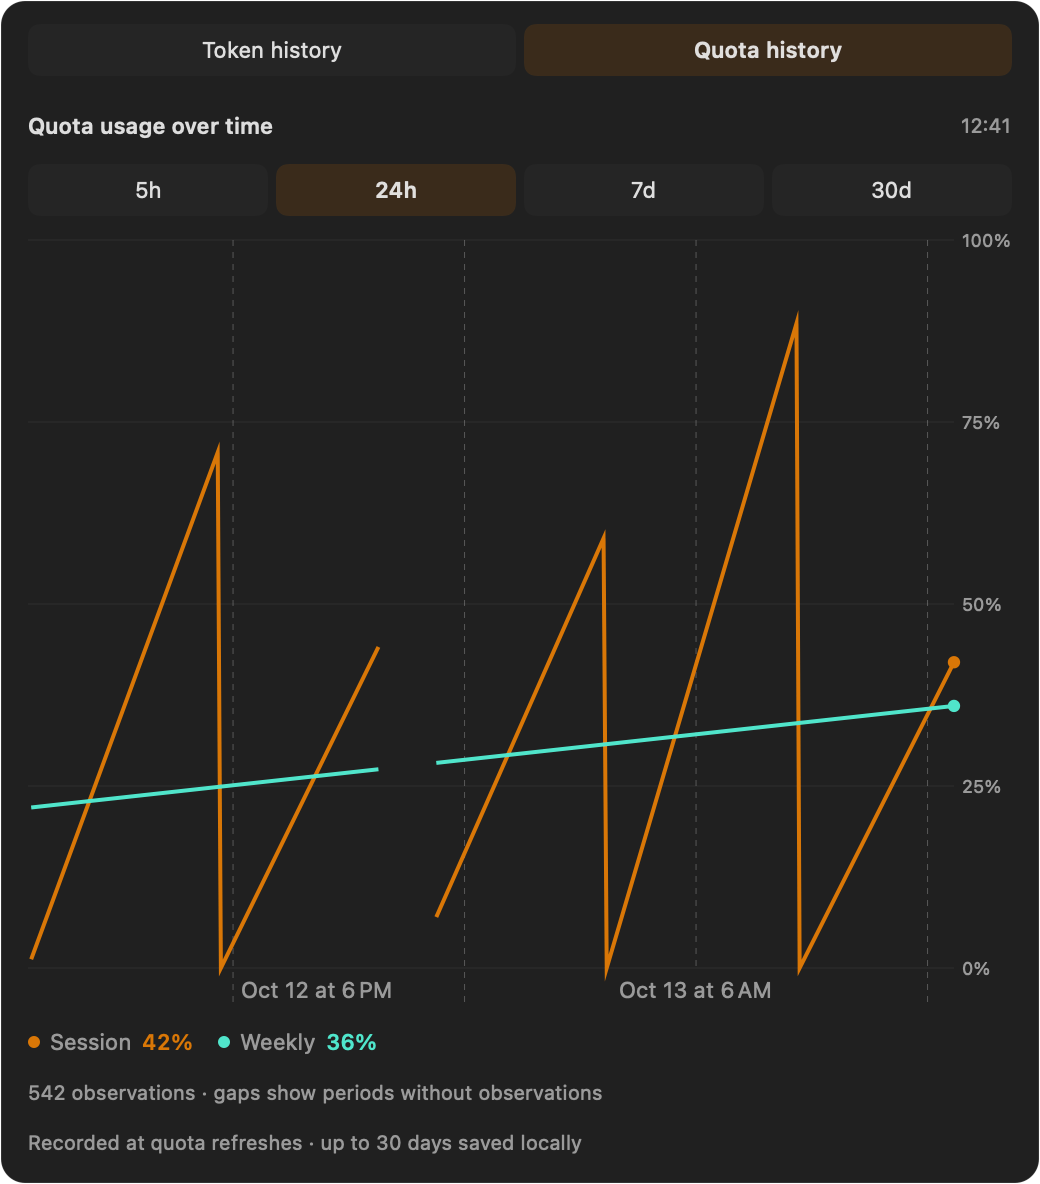
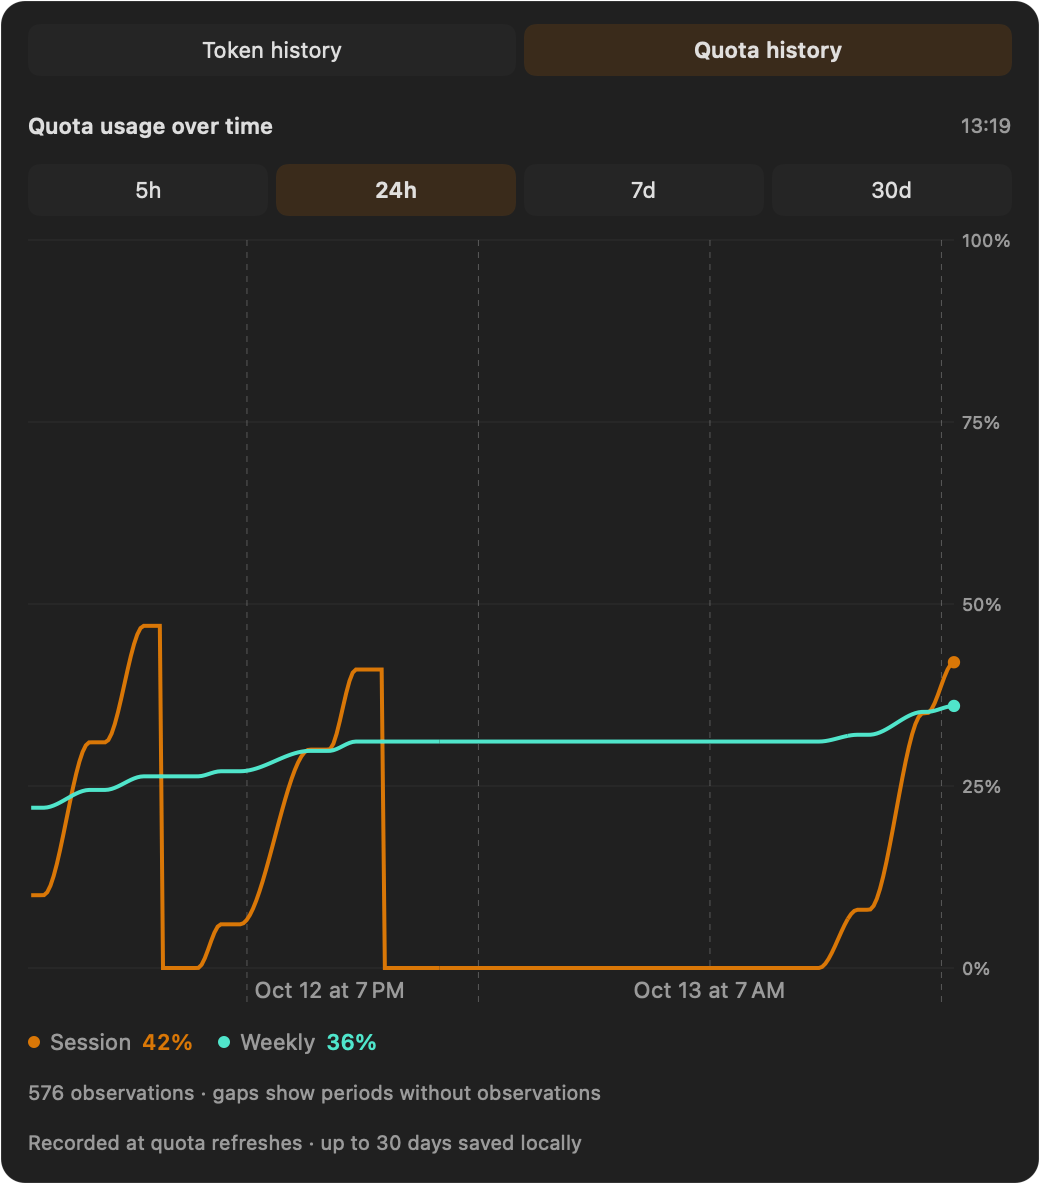
Present history previews side by side with natural sample usage

diff --git a/scripts/ReadmePreview.swift b/scripts/ReadmePreview.swift
@@ -37,19 +37,7 @@ struct ReadmePreview {
         let usage = ProxyUsageSnapshot(days: days, startedAt: start, trackingEnabled: true,
             lastCollectedAt: now.addingTimeInterval(-18), successCount: days.reduce(0) { $0 + $1.requests }, failedCount: 0)
 
-        let indices = (0...288).filter { !(110...126).contains($0) }
-        let historyStart = now.addingTimeInterval(-86400)
-        let session = indices.map { index in
-            let factor = [1.2, 0.9, 1.0, 1.5, 0.875][min(4, index / 60)]
-            return QuotaHistoryPoint(date: historyStart.addingTimeInterval(Double(index * 300)), usedPercent: Double(index % 60) * factor)
-        }
-        let weekly = indices.map { index in
-            QuotaHistoryPoint(date: historyStart.addingTimeInterval(Double(index * 300)), usedPercent: 22 + Double(index) / 288 * 14)
-        }
-        let history = QuotaHistorySnapshot(series: [
-            QuotaHistorySeries(id: "five-hour-session", title: "Session", points: session),
-            QuotaHistorySeries(id: "seven-day-weekly", title: "Weekly", points: weekly)
-        ])
+        let history = quotaHistory(endingAt: now)
         let observed = now.addingTimeInterval(-180)
         func metric(_ name: String, remaining: Double, reset: TimeInterval? = nil, duration: TimeInterval? = nil) -> QuotaMetric {
             QuotaMetric(name: name, percentage: remaining,
@@ -141,6 +129,39 @@ struct ReadmePreview {
         print("Rendered eight previews with fictional accounts and activity.")
     }
 
+    private static func quotaHistory(endingAt now: Date) -> QuotaHistorySnapshot {
+        // Fictional work periods increase at different rates, with quiet time
+        // between them. Only session resets produce abrupt drops.
+        let sessions: [(start: Double, work: [(start: Double, duration: Double, amount: Double)])] = [
+            (-1.5, [(-1.4, 1.5, 10), (0.4, 1.2, 21), (2.0, 1.0, 16)]),
+            (4.25, [(4.4, 0.6, 6), (5.5, 1.8, 24), (7.8, 0.7, 11)]),
+            (20.5, [(20.5, 1.0, 8), (21.8, 1.4, 27), (23.3, 0.7, 7)])
+        ]
+        func consumption(_ work: [(start: Double, duration: Double, amount: Double)], at hour: Double) -> Double {
+            work.reduce(0) { used, period in
+                let progress = min(1, max(0, (hour - period.start) / period.duration))
+                return used + period.amount * progress * progress * (3 - 2 * progress)
+            }
+        }
+        let work = sessions.flatMap(\.work)
+        let baseline = consumption(work, at: 0)
+        let total = consumption(work, at: 24) - baseline
+        let start = now.addingTimeInterval(-86400)
+        var session: [QuotaHistoryPoint] = []
+        var weekly: [QuotaHistoryPoint] = []
+        for index in 0...288 {
+            let hour = Double(index) / 12
+            let date = start.addingTimeInterval(Double(index * 300))
+            let active = sessions.first { hour >= $0.start && hour < $0.start + 5 }
+            session.append(QuotaHistoryPoint(date: date, usedPercent: active.map { consumption($0.work, at: hour) } ?? 0))
+            weekly.append(QuotaHistoryPoint(date: date, usedPercent: 22 + 14 * (consumption(work, at: hour) - baseline) / total))
+        }
+        // End at the same 42% session and 36% weekly usage as the sample account.
+        return QuotaHistorySnapshot(series: [
+            QuotaHistorySeries(id: "five-hour-session", title: "Session", points: session),
+            QuotaHistorySeries(id: "seven-day-weekly", title: "Weekly", points: weekly)
+        ])
+    }
 
     @MainActor private static func capture(_ view: NSView, appearance: NSAppearance?) throws -> CGImage {
         view.appearance = appearance

diff --git a/README.md b/README.md
@@ -33,19 +33,26 @@ Account hover cards add token totals and quota history graphs, with a remembered
   </tr>
 </table>
 
-**Token history**
-
-<picture>
-  <source media="(prefers-color-scheme: dark)" srcset="docs/screenshots/usage-dark.png">
-  <img src="docs/screenshots/usage.png" width="520" alt="Token history tab with daily totals, token counters, activity levels, and model totals">
-</picture>
-
-**Quota history**
-
-<picture>
-  <source media="(prefers-color-scheme: dark)" srcset="docs/screenshots/quota-history-dark.png">
-  <img src="docs/screenshots/quota-history.png" width="520" alt="Quota history tab with session and weekly usage on a shared percentage graph and a compact color legend">
-</picture>
+<table>
+  <tr>
+    <th>Token history</th>
+    <th>Quota history</th>
+  </tr>
+  <tr>
+    <td width="50%" valign="top">
+      <picture>
+        <source media="(prefers-color-scheme: dark)" srcset="docs/screenshots/usage-dark.png">
+        <img src="docs/screenshots/usage.png" width="420" alt="Token history with daily totals, token counters, activity levels, and model totals">
+      </picture>
+    </td>
+    <td width="50%" valign="top">
+      <picture>
+        <source media="(prefers-color-scheme: dark)" srcset="docs/screenshots/quota-history-dark.png">
+        <img src="docs/screenshots/quota-history.png" width="420" alt="Quota history with gradual session and weekly usage, pauses, and sharp session resets">
+      </picture>
+    </td>
+  </tr>
+</table>
 
 Images show the current interface with fictional accounts, sample usage, and the optional reset countdown.
 Light and dark images follow your color preference.
